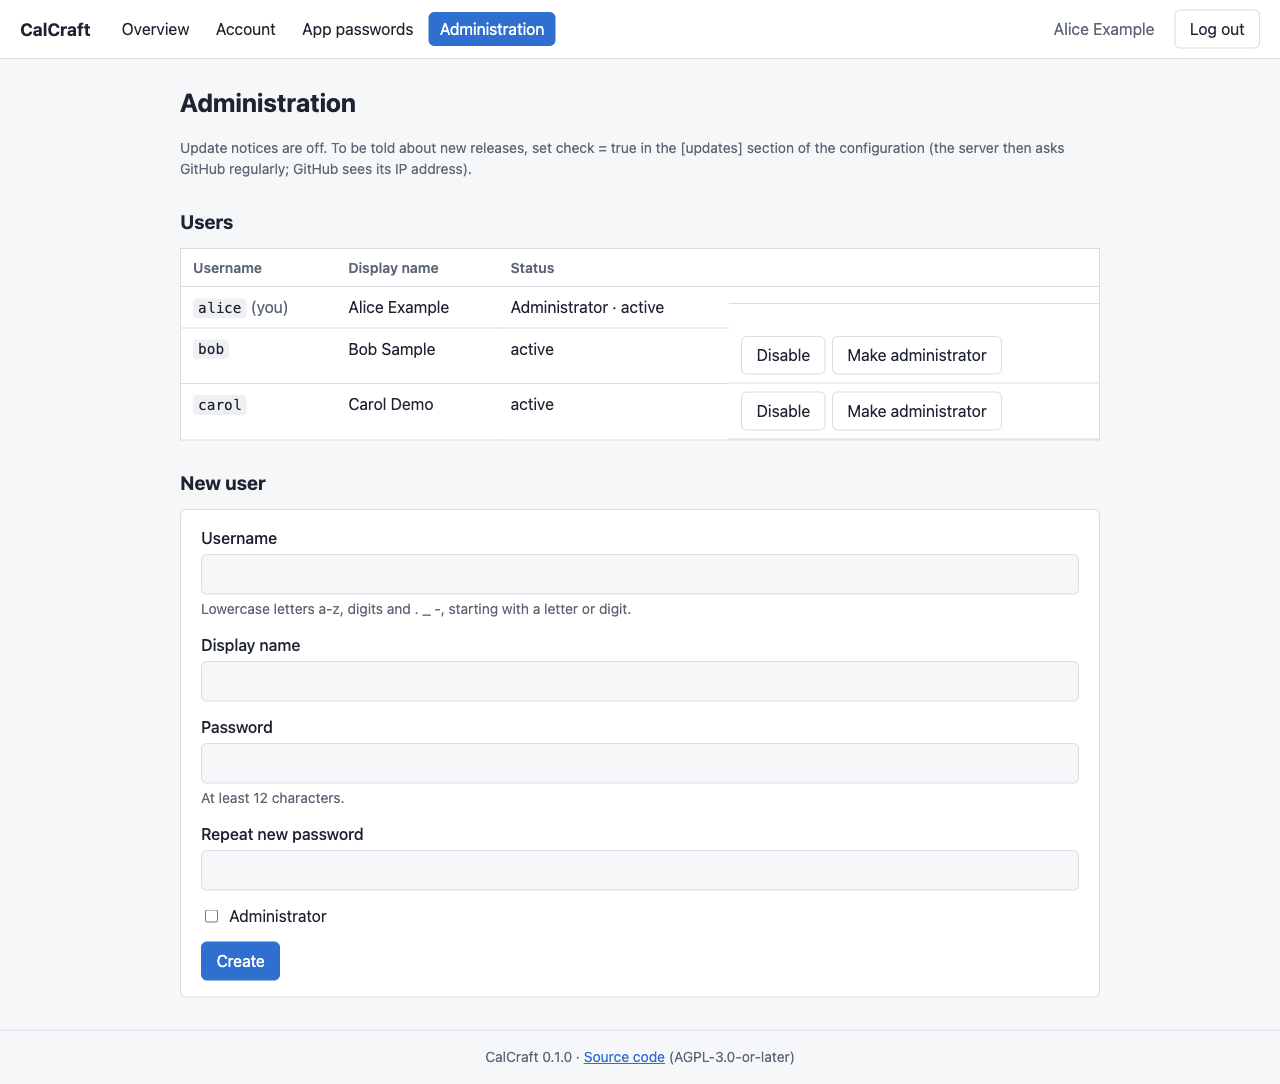
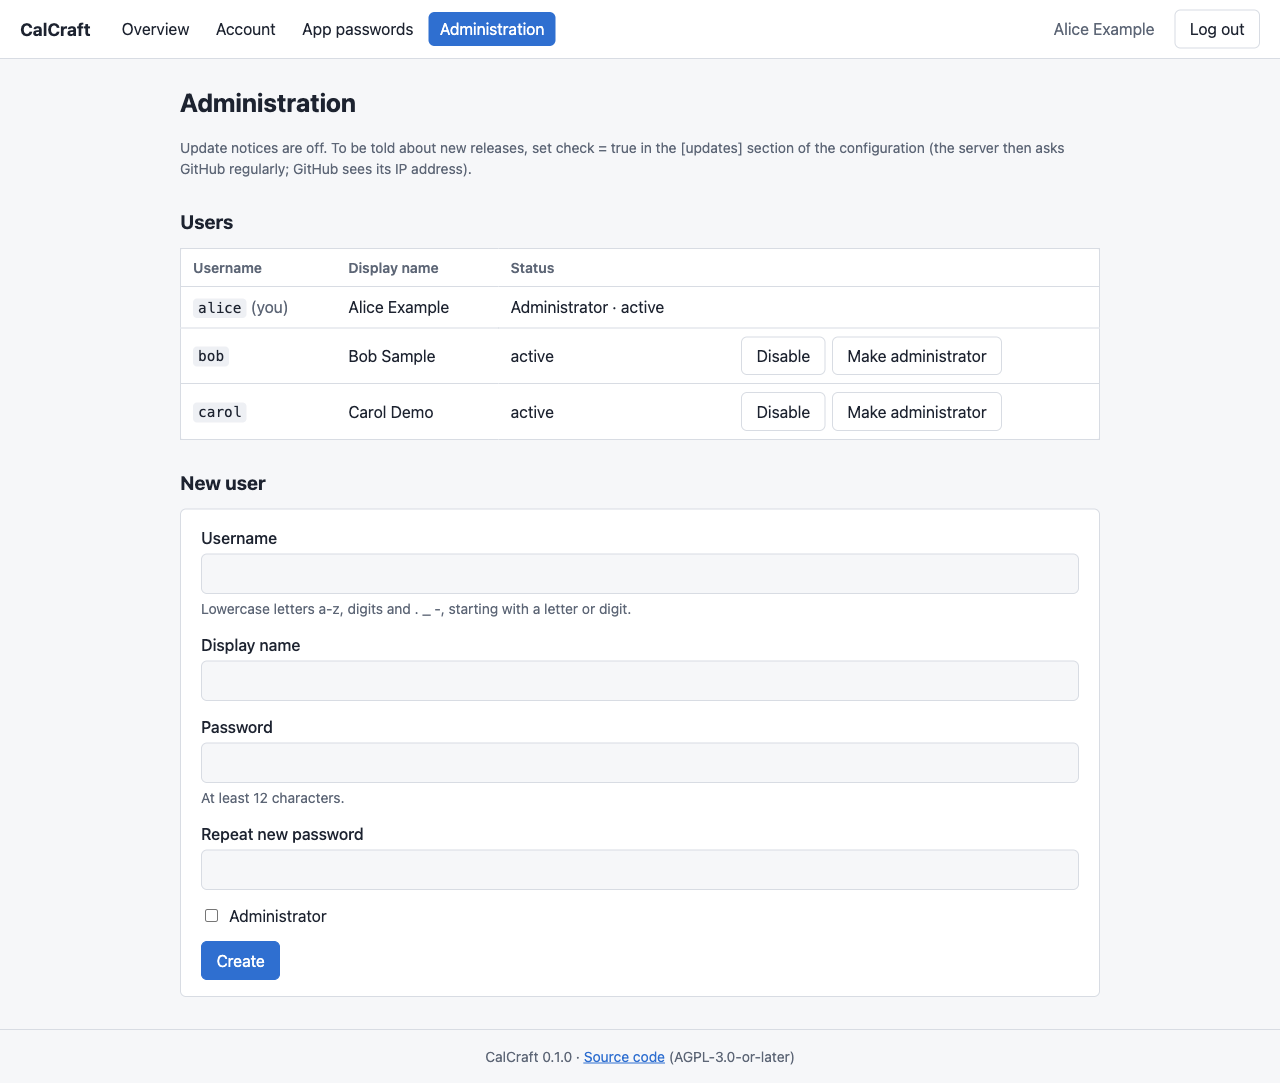
fix(ui): align table action cells, compact phone header; retake screenshots
The action cells carried the flex `.actions` class directly on the <td>,
which took them out of table layout and misaligned row borders. Wrap the
buttons in a div instead and centre cells vertically. At <= 600 px the
header keeps brand, user and logout on one row with the navigation as a
horizontally scrollable row below.

Screenshots retaken with the fixes and a realistic server address
(https://cal.example.com, routed to a throwaway local instance in the
browser only).

diff --git a/crates/calcraft-ui/style.css b/crates/calcraft-ui/style.css
@@ -420,7 +420,15 @@ td {
     text-align: left;
     padding: 0.5rem 0.75rem;
     border-bottom: 1px solid var(--border);
-    vertical-align: top;
+    vertical-align: middle;
+}
+
+th {
+    vertical-align: bottom;
+}
+
+td .actions {
+    align-items: center;
 }
 
 th {
@@ -468,8 +476,38 @@ tr.disabled td {
 }
 
 @media (max-width: 600px) {
+    /* Compact header: brand, user and logout on one row, the navigation
+       as a horizontally scrollable row below. */
     .topbar {
-        padding: 0.5rem 0.75rem;
+        padding: 0.5rem 0.75rem 0.4rem;
+        gap: 0.4rem 0.75rem;
+    }
+
+    .user {
+        margin-left: auto;
+        min-width: 0;
+        overflow: hidden;
+        text-overflow: ellipsis;
+        white-space: nowrap;
+    }
+
+    .topbar > button {
+        align-self: center;
+        padding: 0.25rem 0.7rem;
+    }
+
+    .topbar nav {
+        order: 1;
+        flex: 1 0 100%;
+        flex-wrap: nowrap;
+        overflow-x: auto;
+        margin: 0 -0.75rem;
+        padding: 0 0.75rem;
+    }
+
+    .topbar nav a {
+        flex: none;
+        white-space: nowrap;
     }
 
     main {

diff --git a/crates/calcraft-ui/src/app/admin.rs b/crates/calcraft-ui/src/app/admin.rs
@@ -169,29 +169,31 @@ fn UserRow(user: AdminUser, on_change: Callback<()>) -> impl IntoView {
             </td>
             <td>{user.display_name.clone().unwrap_or_default()}</td>
             <td>{status.join(" · ")}</td>
-            <td class="actions">
-                {(!is_self)
-                    .then(|| {
-                        view! {
-                            <button
-                                type="button"
-                                class="secondary"
-                                disabled=move || busy.get()
-                                on:click=toggle_disabled
-                            >
-                                {if user.disabled { t::ENABLE } else { t::DISABLE }}
-                            </button>
-                            <button
-                                type="button"
-                                class="secondary"
-                                disabled=move || busy.get()
-                                on:click=toggle_admin
-                            >
-                                {if user.is_admin { t::REVOKE_ADMIN } else { t::GRANT_ADMIN }}
-                            </button>
-                        }
-                    })}
-                <ErrorText error />
+            <td>
+                <div class="actions">
+                    {(!is_self)
+                        .then(|| {
+                            view! {
+                                <button
+                                    type="button"
+                                    class="secondary"
+                                    disabled=move || busy.get()
+                                    on:click=toggle_disabled
+                                >
+                                    {if user.disabled { t::ENABLE } else { t::DISABLE }}
+                                </button>
+                                <button
+                                    type="button"
+                                    class="secondary"
+                                    disabled=move || busy.get()
+                                    on:click=toggle_admin
+                                >
+                                    {if user.is_admin { t::REVOKE_ADMIN } else { t::GRANT_ADMIN }}
+                                </button>
+                            }
+                        })}
+                    <ErrorText error />
+                </div>
             </td>
         </tr>
     }

diff --git a/crates/calcraft-ui/src/app/app_passwords.rs b/crates/calcraft-ui/src/app/app_passwords.rs
@@ -121,28 +121,30 @@ fn AppPasswordRow(info: AppPasswordInfo, on_change: Callback<()>) -> impl IntoVi
             <td>{info.name}</td>
             <td>{format_timestamp(info.created_at)}</td>
             <td>{info.last_used_at.map_or_else(|| t::NEVER.to_owned(), format_timestamp)}</td>
-            <td class="actions">
-                <Show
-                    when=move || confirming.get()
-                    fallback=move || {
-                        view! {
-                            <button type="button" class="danger" on:click=move |_| confirming.set(true)>
-                                {t::REVOKE}
-                            </button>
+            <td>
+                <div class="actions">
+                    <Show
+                        when=move || confirming.get()
+                        fallback=move || {
+                            view! {
+                                <button type="button" class="danger" on:click=move |_| confirming.set(true)>
+                                    {t::REVOKE}
+                                </button>
+                            }
                         }
-                    }
-                >
-                    <span class="confirm-inline">
-                        <span>{confirm_text.clone()}</span>
-                        <button type="button" class="danger" on:click=revoke.clone() disabled=move || busy.get()>
-                            {t::REVOKE_CONFIRM}
-                        </button>
-                        <button type="button" class="secondary" on:click=move |_| confirming.set(false)>
-                            {t::CANCEL}
-                        </button>
-                    </span>
-                </Show>
-                <ErrorText error />
+                    >
+                        <span class="confirm-inline">
+                            <span>{confirm_text.clone()}</span>
+                            <button type="button" class="danger" on:click=revoke.clone() disabled=move || busy.get()>
+                                {t::REVOKE_CONFIRM}
+                            </button>
+                            <button type="button" class="secondary" on:click=move |_| confirming.set(false)>
+                                {t::CANCEL}
+                            </button>
+                        </span>
+                    </Show>
+                    <ErrorText error />
+                </div>
             </td>
         </tr>
     }

diff --git a/CHANGELOG.md b/CHANGELOG.md
@@ -13,3 +13,9 @@ follow [Semantic Versioning](https://semver.org/). Release process:
   macOS and Windows, `SHA256SUMS`, build provenance attestations and a
   signed multi-arch Docker image on `ghcr.io/zeitgleich/calcraft`; see
   [docs/release-verification.md](docs/release-verification.md).
+
+### Fixed
+
+- Web UI: the action column of the user and app-password tables now lines up
+  with the other cells; on phone widths the header is compact (user and
+  logout next to the name, navigation as a scrollable row below).
